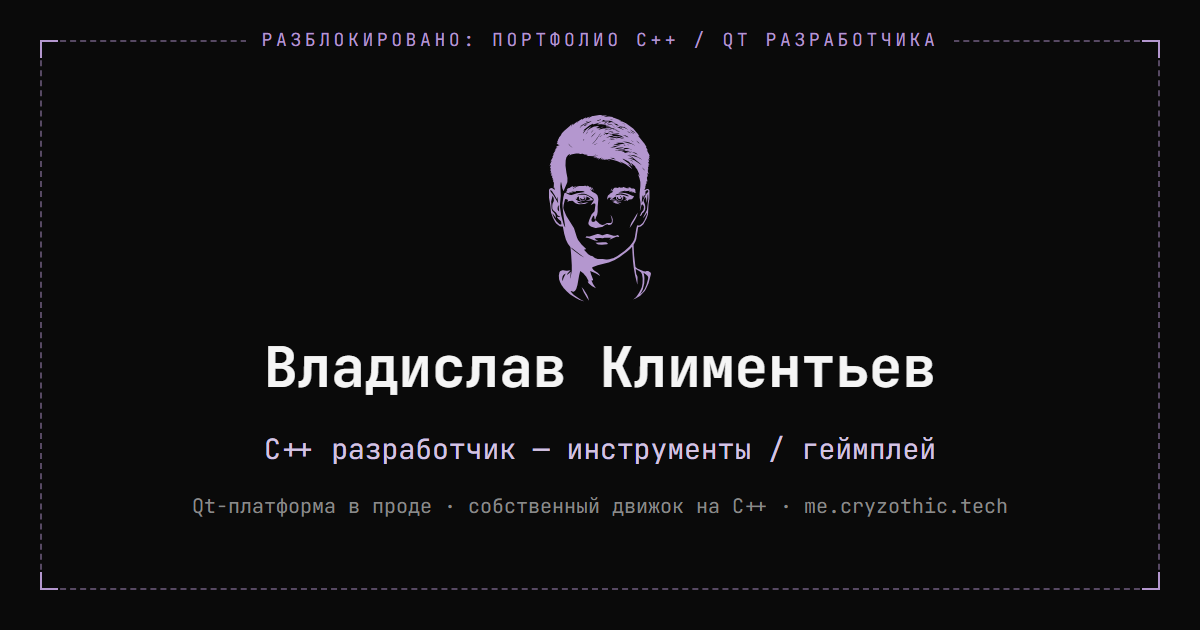
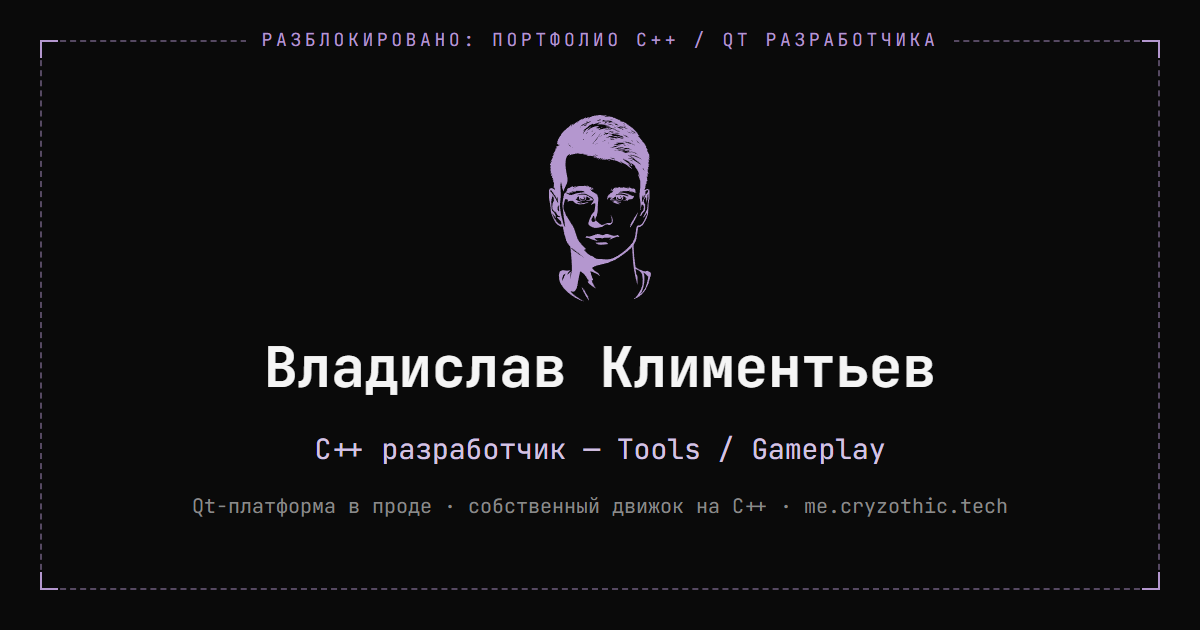
copy: the sector gets its title, the tagline keeps its trade

Changed region(s): [[0.2158, 0.6937, 0.8017, 0.754]]

diff --git a/og/card.html b/og/card.html
@@ -1,4 +1,8 @@
 <!doctype html>
+<!-- Re-render after any edit here (EN: og.png, no ?lang). Both paths must be absolute, and
+     --allow-file-access-from-files is load-bearing: without it the mask SVG below is blocked
+     as cross-origin and the card renders face-less, with no error and no failed exit code.
+     msedge --headless --allow-file-access-from-files --screenshot=<repo>/public/og-ru.png --window-size=1200,630 --force-device-scale-factor=1 --hide-scrollbars "file:///<repo>/og/card.html?lang=ru" -->
 <html>
 <head>
 <meta charset="utf-8">
@@ -53,7 +57,7 @@
     <span class="status" data-ru="РАЗБЛОКИРОВАНО: портфолио C++ / Qt разработчика">UNLOCKED: C++ / Qt Developer Portfolio</span>
     <div class="face"></div>
     <h1 data-ru="Владислав Климентьев">Vladislav Klimentev</h1>
-    <div class="role" data-ru="C++ разработчик — инструменты / геймплей">C++ Developer — Tools / Gameplay</div>
+    <div class="role" data-ru="C++ разработчик — Tools / Gameplay">C++ Developer — Tools / Gameplay</div>
     <div class="proof" data-ru="Qt-платформа в проде · собственный движок на C++ · me.cryzothic.tech">Qt platform in production · custom C++ engine · me.cryzothic.tech</div>
   </div>
   <script>

diff --git a/src/i18n/strip.ts b/src/i18n/strip.ts
@@ -6,6 +6,7 @@
 //
 // The two CV menu labels are NOT here on purpose: «English · PDF» / «Русский · PDF»
 // name the language of the *file*, not of the site, so they read the same either way.
+// «Tools / Gameplay» is left untranslated in the RU role: it is the trade's own name.
 import type { Lang } from './locale';
 
 export const STRIP: Record<
@@ -29,7 +30,7 @@ export const STRIP: Record<
   },
   ru: {
     name: 'Владислав Климентьев',
-    role: 'C++ разработчик · инструменты / геймплей',
+    role: 'C++ разработчик · Tools / Gameplay',
     cvMenu: 'Язык резюме',
     quickActions: 'Быстрые действия',
     email: 'Почта',

diff --git a/src/components/board/VaiShell.tsx b/src/components/board/VaiShell.tsx
@@ -184,10 +184,10 @@ export default function VaiShell({
   };
 
   // One string, three jobs: the field's accessible name, its placeholder and the
-  // label that types itself while the field is empty. `C:\>` and `/help` are shell
-  // syntax, not prose, so only the verb between them is translated.
+  // label that types itself while the field is empty. Only the `C:\>` prefix is
+  // composed here — shell syntax, not prose, so it stays out of the dictionary.
   const ask = t('vai.sys.ask', { mode: MODE_NAME[mode] });
-  const prompt = `C:\\> ${ask} · /help`;
+  const prompt = `C:\\> ${ask}`;
 
   useGSAP(
     () => {
